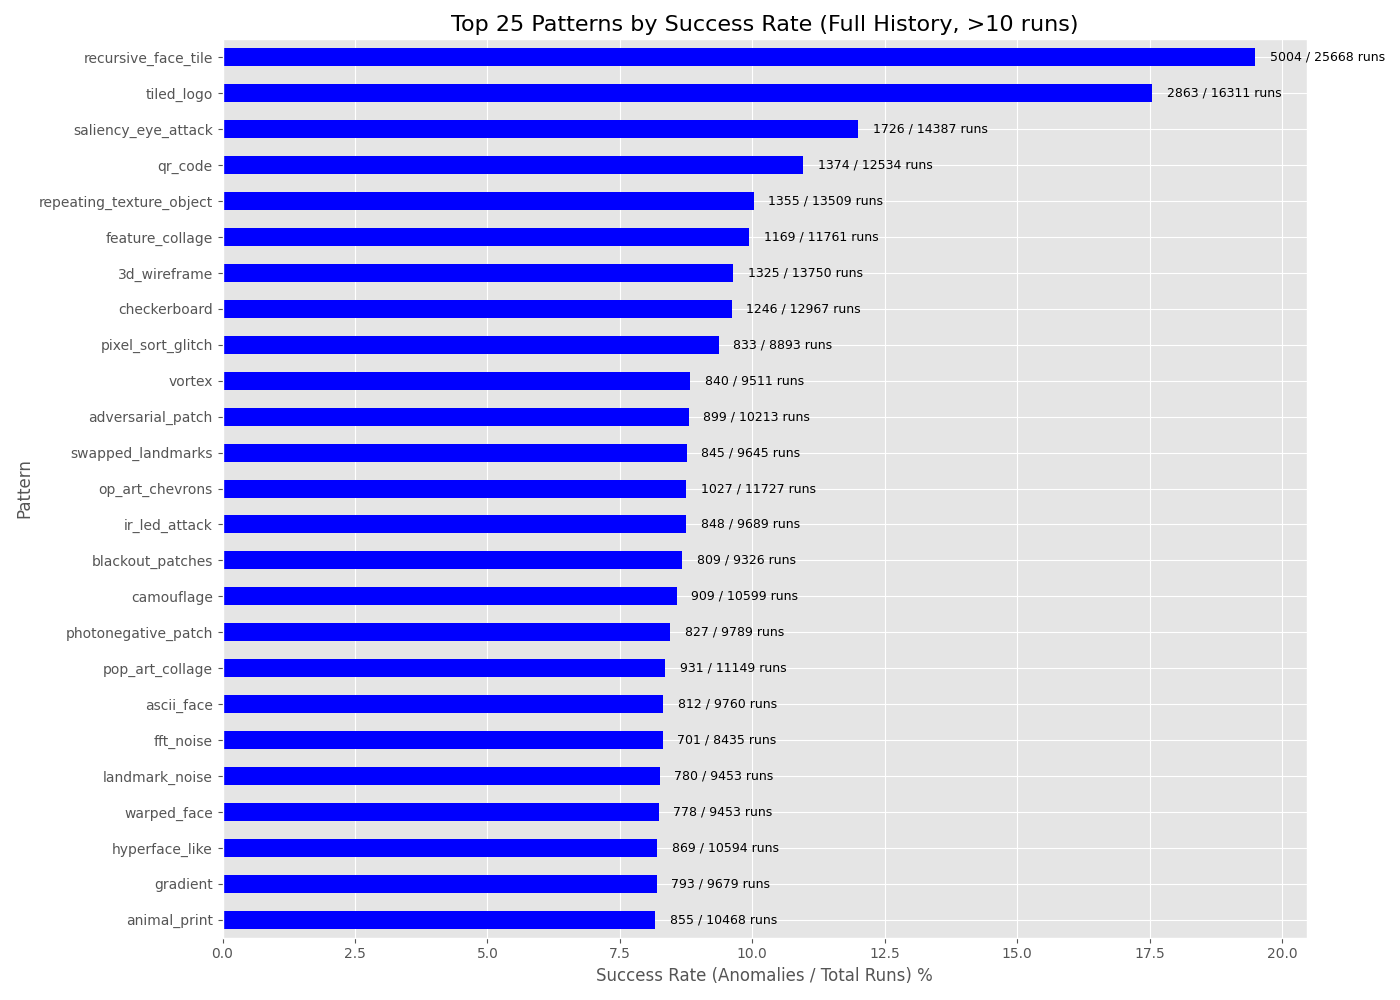
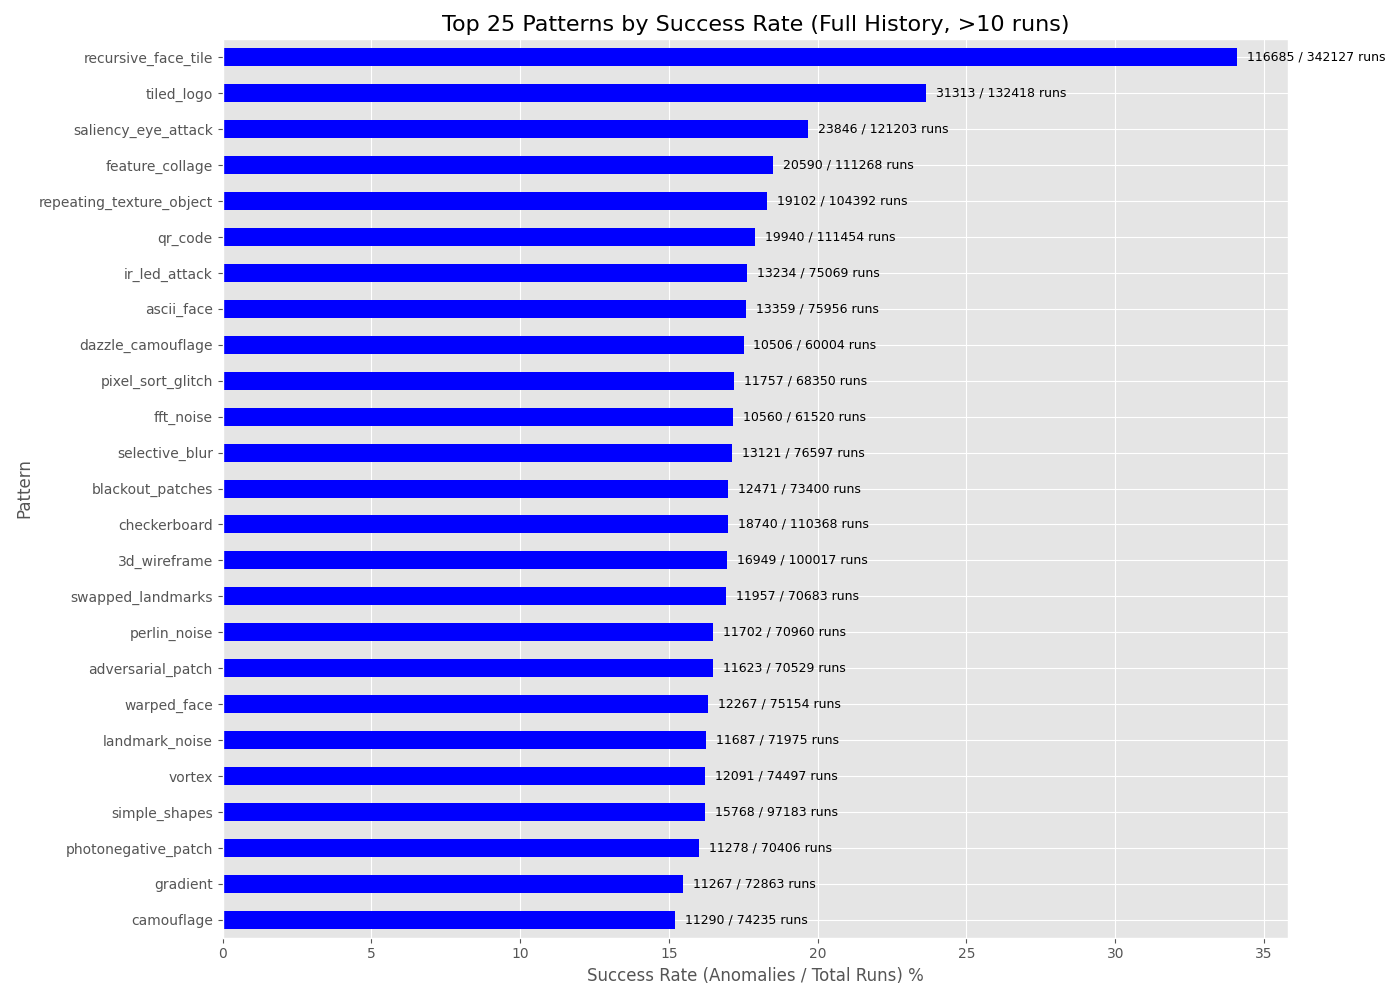
updated reports

diff --git a/README.md b/README.md
@@ -214,6 +214,50 @@ This repository currently contains research artifacts and documentation related 
 
 To scientifically track progress and validate results, the fuzzer includes a powerful reporting suite that analyzes the entire history of the fuzzer's test runs. This moves our findings beyond single anecdotes to identify statistically significant trends. While the reporting suite is fully functional, our current focus is on scaling fuzzer throughput. The statistical relevance of these reports will grow as we launch longer, multi-epoch research campaigns.
 
+**Fuzzer Performance Report**
+This chart tracks the fuzzer's raw throughput. It's our "speedometer," showing how many tests we can run per minute.
+![Epoch 7 Performance Report](./images/reports/epoch_7_performance_report.png)
+
+### 📈 Pattern Effectiveness Analysis**
+
+**1. Pattern Success Rate (The "Leaderboard")**
+This is the primary "leaderboard" for individual patterns. It calculates the raw success rate (Anomalies / Total Runs) for every pattern that has been run a significant number of times (e.g., >10 runs). This tells us which patterns, like recursive_face_tile, are the most effective "building blocks."
+![Pattern Success Rate](./images/reports/2_1_pattern_success_rate_full_history.png)
+
+**2. Synergistic Pattern Combinations**
+This report is where the genetic algorithm's power becomes visible. It answers: "Are combinations of patterns more effective than single patterns?" It looks for "synergy," where two or more patterns layered together (e.g., pixel_sort_glitch+repeating_texture_object+recursive_face_tile) have a much higher success rate than they would individually.
+![Synergistic Pattern Combinations](./images/reports/2_2_pattern_synergy_report_full_history.png)
+
+**3. Pattern Anomaly Type Distribution**
+This report analyzes how a pattern is "winning." Instead of just "it worked," this heatmap shows if a pattern (e.g., recursive_face_tile) is more likely to cause the AI to find extra faces (EXTRA_FACE) or lose the person entirely (Person Lost).
+![Pattern Anomaly Type](./images/reports/1_1_pattern_anomaly_type_distribution.png)
+
+### 🎯 Target Vulnerability Analysis
+
+**4. Target Image Vulnerability**
+This report answers: "Which of our test images is the 'weakest' or most vulnerable target?" By tracking the total number of anomalies per image, we can identify which poses, lighting conditions, or facial structures (like Woman_Wearing_Shawl.png) are most easily confused by adversarial patterns.
+![Target Image Vulnerability](./images/reports/1_2_target_vulnerability_full_history.png)
+
+**5. Top Specific Vulnerabilities**
+This is the most granular report. It identifies the "golden" test cases: the exact pattern recipe (e.g., recursive_face_tile) on a specific image (e.g., Woman_Wearing_Shawl.png) that failed most often. This shows us which vulnerabilities are highly repeatable and are the best candidates for physical printing and real-world testing.
+![Specific Vulnerabilities](./images/reports/1_3_top_vulnerabilities_by_image_and_recipe.png)
+
+6. Image Anomaly Type Distribution
+This report is the companion to the pattern report. It answers: "How do different images tend to fail?" This shows if certain images (e.g., Man_Wearing_Hat.png) are vulnerable to EXTRA_FACE anomalies, while others (e.g., full_body_shawl_6.png) are more likely to cause Person Lost anomalies.
+![Image Anomaly Type Distribution](./images/reports/1_4_image_anomaly_type_distribution.png)
+
+
+🤖 Fuzzer Performance & Strategy
+
+7. Priority Queue Growth
+This chart tracks the fuzzer's learning progress. It answers: "Is the fuzzer still finding new, unique vulnerabilities?" A rising line shows that the genetic algorithm is continuing to discover new successful anomaly types, while a flat line would indicate it has saturated its findings.
+
+
+8. Fuzzer Strategy Effectiveness
+This report validates our genetic algorithm. It answers: "Are the fuzzer's 'evolved' test cases (from mutation/crossover) more effective than the initial 'unknown' or random tests?" This chart shows the raw success rate based on a test case's origin, proving which strategies are most effective.
+
+
+
 Here are recent reports generated:
 
 **1. Fuzzer Performance Report**
